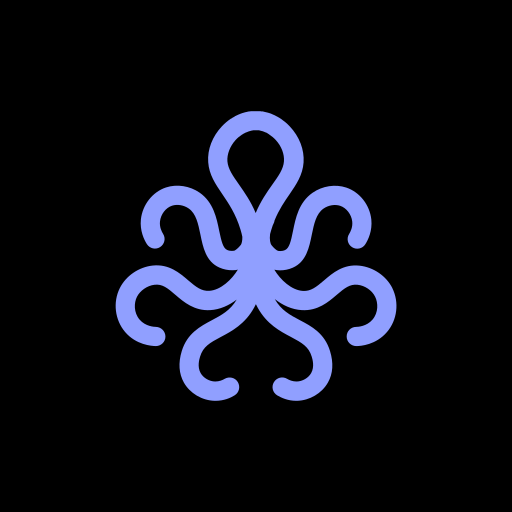
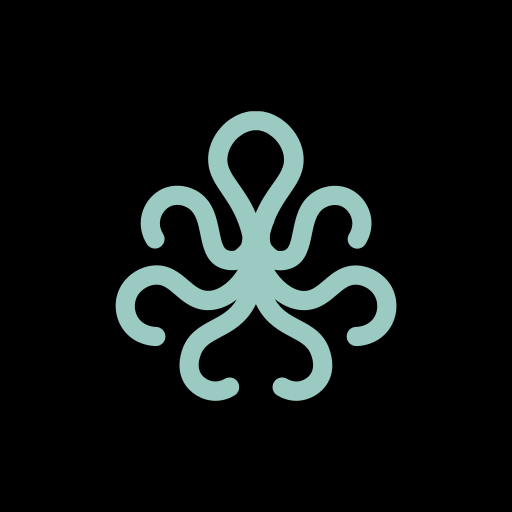
feat(color): blanco y acento nuevos por cambio de madre, y el isotipo que no leía el token (D-BBW-67, D-BBW-68)
BLANCO #d8fcf7 → oklch(0.9641 0.0377 186.4), MODO MADRE elegido por Zavala:
se tiñe la familia de neutros entera, no solo el texto. La rampa lleva 5,4×
el croma de antes (0.0069 → 0.0377), así que todo neutro del sitio vira a
menta: los cuatro tintes de texto, la línea sobre el fondo y los siete tintes
de las partículas, que cuelgan de esta misma rampa.

ACENTO #9bcac3 → oklch(0.8038 0.0503 185.0).

LA FÓRMULA NO SE TOCA. Los dos colores caen en el MISMO paso madre que los
que sustituyen —mint 100, accent 300— así que las fracciones de cada peldaño
siguen siendo las que eran y las rampas se regeneran solas. Cambian seis
números, no la derivación. Ningún HEX fuera de primitives.

EL ACENTO Y LA FAMILIA NEUTRA COLAPSAN EN TONO, que es lo que había que
reportar: acento nuevo H=185.0 contra blanco nuevo H=186.4 son 1,4 grados —
el mismo tono. Contra la madre mint anterior habrían sido 10,6, que tampoco
separa. El acento violeta estaba a 101,2 grados: era otro tono, y por eso
funcionaba como acento. Ahora se distingue solo por claridad y croma, y el
croma cae a un tercio. Se ve en la captura: el isotipo ya no salta del resto.

EL ISOTIPO NO LEÍA EL TOKEN, y no estaba en la lista que había que revisar.
`media/masters/brand-icon.svg` llevaba `#909fff` escrito a mano: el violeta
viejo. Repintado al acento nuevo y `media:build` ejecutado, que SÍ hacía
falta por esto — siete derivados regenerados (icono, favicon, icono de Apple,
[…]

Changed region(s): [[0.2188, 0.2188, 0.7812, 0.7812]]

diff --git a/src/styles/tokens/primitives/colors.css b/src/styles/tokens/primitives/colors.css
@@ -52,10 +52,17 @@
   --bbf-color-ink-800: oklch(calc(var(--bbf-color-ink-l) + var(--bbf-color-ink-span-up) * 0.1111) var(--bbf-color-ink-c) var(--bbf-color-ink-h));
   --bbf-color-ink-900: oklch(var(--bbf-color-ink-l) var(--bbf-color-ink-c) var(--bbf-color-ink-h));
 
-  /* ── Familia `mint` · madre #e6ecea → oklch(0.938 0.0069 174.4) · paso madre: 100 · origen: N0 §2.2 `#e6ecea` (color base del contenedor; madre de los 6 blancos-verdosos) ── */
-  --bbf-color-mint-l: 0.938;
-  --bbf-color-mint-c: 0.0069;
-  --bbf-color-mint-h: 174.4;
+  /* ── Familia `mint` · madre #d8fcf7 → oklch(0.9641 0.0377 186.4) · paso madre: 100 · origen: decisión de Zavala 2026-09-22 (D-BBW-67) ──
+     ENMIENDA DE MADRE, MODO «MADRE» ELEGIDO POR ZAVALA: el blanco del sistema deja de ser `#e6ecea` (oklch 0.938 0.0069 174.4, N0 §2.2) y
+     pasa a `#d8fcf7`. **Se tiñe la familia de neutros ENTERA**, no solo el texto: la alternativa —reapuntar únicamente el rol de texto y
+     dejar la rampa quieta— se descartó a propósito. Consecuencia dicha antes de aplicarla y aceptada: la rampa lleva **5,4× el croma de
+     antes** (0.0069 → 0.0377), así que **todo neutro del sitio vira a menta** — el texto en sus cuatro tintes, la línea sobre el fondo y
+     los siete tintes de las partículas, que cuelgan de esta misma rampa.
+     LA FÓRMULA NO SE TOCA: el color nuevo cae en el **mismo paso madre (100)** que el viejo —ceil((0.98−0.9641)/(0.98−0.2)×9) = 1—, así que
+     las fracciones de cada peldaño siguen siendo las que eran y la rampa se regenera sola. Cambian tres números, no la derivación. */
+  --bbf-color-mint-l: 0.9641;
+  --bbf-color-mint-c: 0.0377;
+  --bbf-color-mint-h: 186.4;
   --bbf-color-mint-span-up: calc(var(--bbf-color-l-max) - var(--bbf-color-mint-l));
   --bbf-color-mint-span-down: calc(var(--bbf-color-mint-l) - var(--bbf-color-l-min));
   --bbf-color-mint-50: oklch(calc(var(--bbf-color-mint-l) + var(--bbf-color-mint-span-up) * 1) var(--bbf-color-mint-c) var(--bbf-color-mint-h));
@@ -69,10 +76,21 @@
   --bbf-color-mint-800: oklch(calc(var(--bbf-color-mint-l) - var(--bbf-color-mint-span-down) * 0.875) var(--bbf-color-mint-c) var(--bbf-color-mint-h));
   --bbf-color-mint-900: oklch(calc(var(--bbf-color-mint-l) - var(--bbf-color-mint-span-down) * 1) var(--bbf-color-mint-c) var(--bbf-color-mint-h));
 
-  /* ── Familia `accent` · madre #909fff → oklch(0.7309 0.1399 275.6) · paso madre: 300 · origen: N0 §2.2 `#909FFF` ×6 (acento: hover nav, punto de estado, burger, ACCENT) ── */
-  --bbf-color-accent-l: 0.7309;
-  --bbf-color-accent-c: 0.1399;
-  --bbf-color-accent-h: 275.6;
+  /* ── Familia `accent` · madre #9bcac3 → oklch(0.8038 0.0503 185.0) · paso madre: 300 · origen: decisión de Zavala 2026-09-22 (D-BBW-67) ──
+     ENMIENDA DE MADRE: el acento deja de ser el violeta `#909fff` (oklch 0.7309 0.1399 275.6, N0 §2.2) y pasa a `#9bcac3`.
+     ⚠ EL ACENTO Y LA FAMILIA NEUTRA COLAPSAN EN TONO, y hay que decirlo porque cambia lo que el acento ES:
+       · acento nuevo H = 185.0 · blanco nuevo H = 186.4 → **1,4° de distancia**. Son el mismo tono.
+       · contra la madre mint ANTERIOR (174.4°) habrían sido 10,6°, que tampoco separa.
+       · el acento ANTERIOR estaba a **101,2°** de la familia neutra: era otro tono, y por eso funcionaba como acento.
+     Consecuencia: el acento **ya no se distingue por tono** sino solo por claridad y croma (L 0.8038 vs 0.9641; C 0.0503 vs 0.0377), y el
+     croma cae de 0.1399 a 0.0503 — **un tercio del que tenía**. Un anillo de foco y un estado de enlace que antes saltaban por color ahora
+     se apoyan en una diferencia de luminosidad pequeña sobre una rampa del mismo tono. Está medido en el output del turno; no se corrige
+     aquí porque es la decisión de Zavala y no un defecto de la fórmula.
+     LA FÓRMULA NO SE TOCA: el color nuevo cae en el **mismo paso madre (300)** que el viejo —ceil((0.98−0.8038)/(0.98−0.2)×9) = 3—, así que
+     las fracciones siguen siendo las que eran. */
+  --bbf-color-accent-l: 0.8038;
+  --bbf-color-accent-c: 0.0503;
+  --bbf-color-accent-h: 185.0;
   --bbf-color-accent-span-up: calc(var(--bbf-color-l-max) - var(--bbf-color-accent-l));
   --bbf-color-accent-span-down: calc(var(--bbf-color-accent-l) - var(--bbf-color-l-min));
   --bbf-color-accent-50: oklch(calc(var(--bbf-color-accent-l) + var(--bbf-color-accent-span-up) * 1) var(--bbf-color-accent-c) var(--bbf-color-accent-h));

diff --git a/src/components/organisms/Footer/Footer.module.css b/src/components/organisms/Footer/Footer.module.css
@@ -40,7 +40,11 @@
   font-weight: var(--bbf-type-legal-weight);
   letter-spacing: var(--bbf-type-legal-tracking);
   text-shadow: var(--bbf-type-legal-shadow);
-  text-transform: uppercase;
+  /* D-BBW-68 · A PRUEBA: la línea legal en minúscula normal, MISMO cuerpo. Zavala la compara contra la caja alta antes de decidir.
+     Volver a mayúsculas es esta línea: `text-transform: uppercase;`.
+     NOTA QUE LA COMPARACIÓN NECESITA: el interletrado del rol `legal` es ×6 y se eligió PARA CAJA ALTA («las mayúsculas sin interletrado
+     se apelmazan»). En minúscula ese mismo ×6 queda suelto. La prueba cambia SOLO la caja, que es lo pedido y lo que hace la comparación
+     justa; si gana la minúscula, el interletrado quiere su propio peldaño y eso es otra decisión, no un arreglo silencioso. */
   text-wrap: pretty;
 }
 
